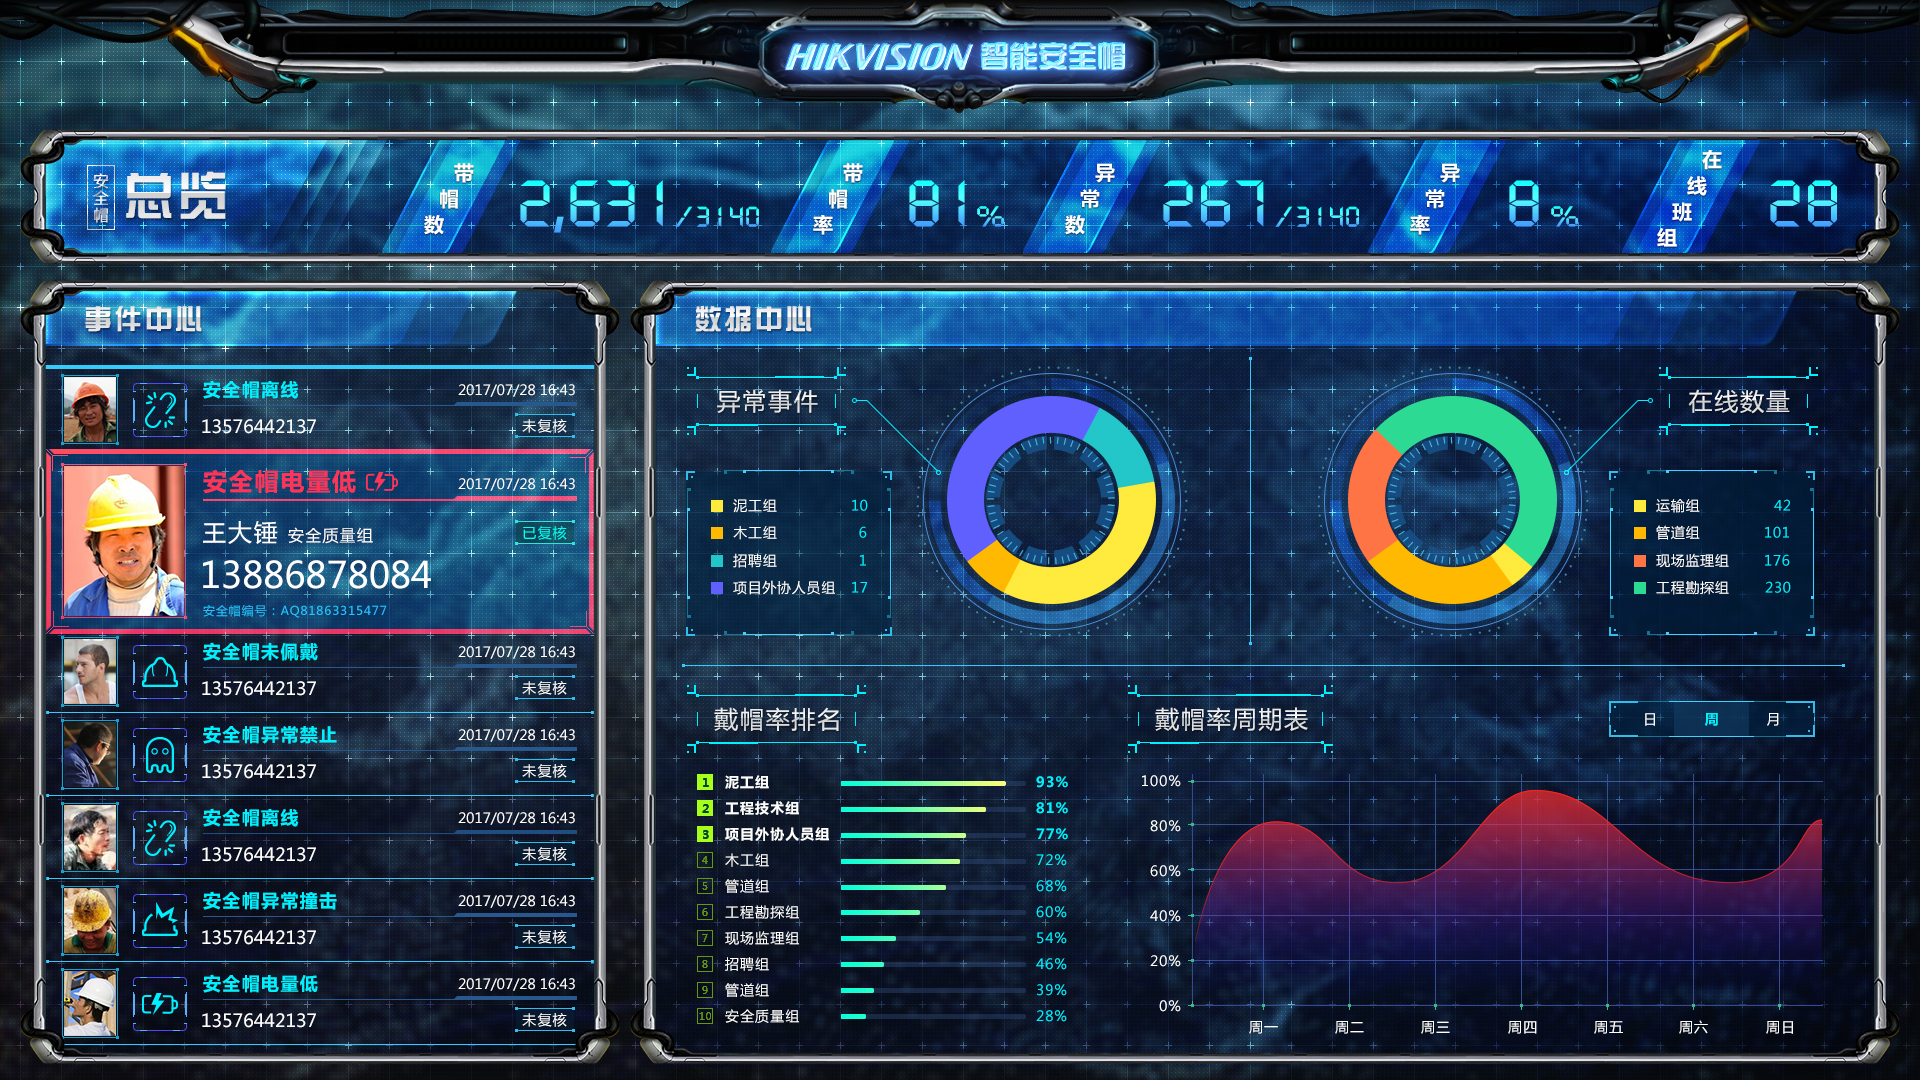
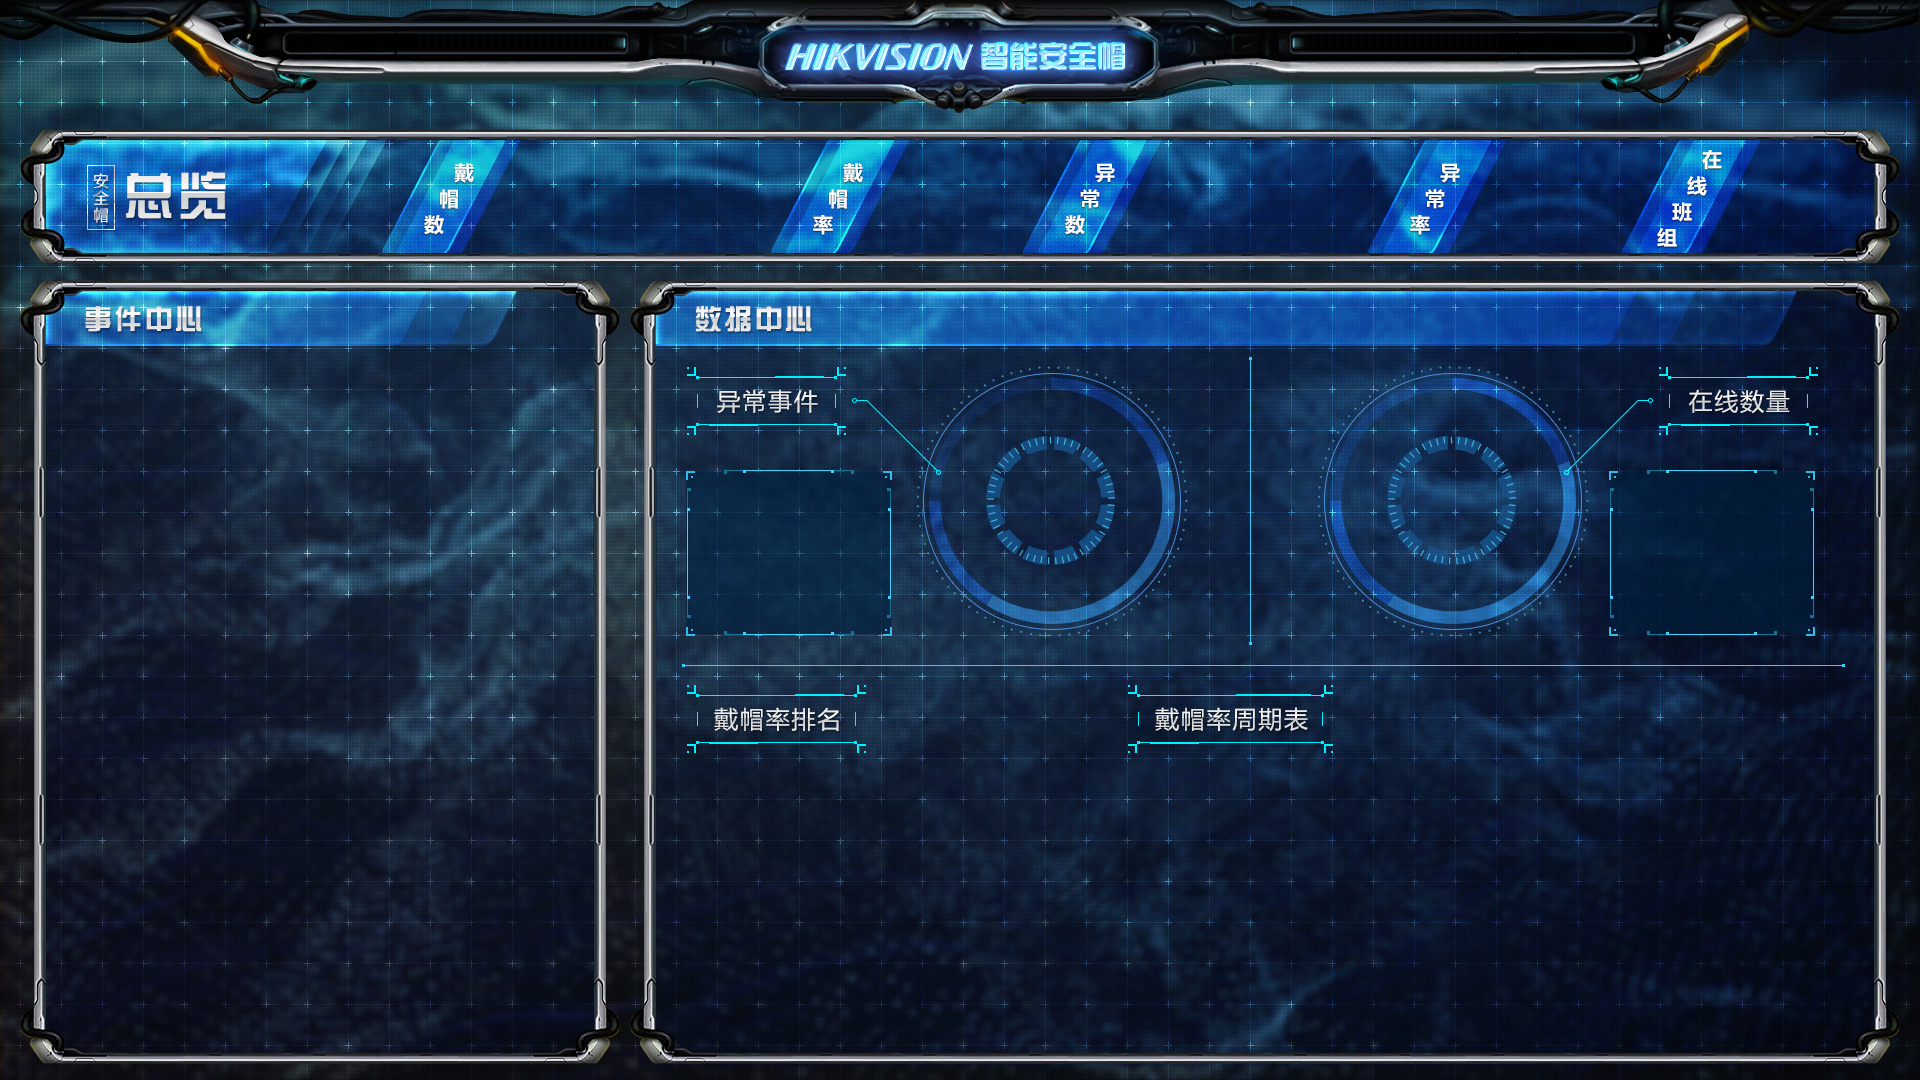
modify

diff --git a/src/views/Overview.vue b/src/views/Overview.vue
@@ -1,8 +1,11 @@
 <template>
   <div class="main-bg">
     <LayoutView>
-      <div slot="overview">
-        <div class="test-font">1123123123</div>
+      <div slot="summary">
+        <Summary  :summary="summary">
+          <h3 slot="title">总览</h3>
+        </Summary>
+        <!-- <div class="test-font">1123123123</div> -->
       </div>
       <div slot="event">
         <event-view  :eventData="event">
@@ -35,6 +38,7 @@
 
 <script>
   import LayoutView from '../components/LayoutView.vue'
+  import Summary from '../components/Summary.vue'
   import PieView from '../components/PieView.vue'
   import CurveView from '../components/CurveView.vue'
   import RankView from '../components/RankView.vue'
@@ -45,7 +49,7 @@
     name: 'Overview',
     data () {
       return {
-        overview: [],
+        summary: [],
         event: [],
         unusual: null,
         hatNum: null,
@@ -59,7 +63,7 @@
           .then((results) =>{
             console.log(results);
             this.$nextTick(function(){
-              this.overview = results[0].data.data; // 总览
+              this.summary = results[0].data.data; // 总览
               this.event = results[1].data.data;  // 事件中心
               this.unusual = results[2].data.data;  // 异常事件
               this.hatNum = results[3].data.data;  // 各组安全帽在线数
@@ -72,6 +76,7 @@
     },
     components:{
       LayoutView,
+      Summary,
       PieView,
       CurveView,
       RankView,
@@ -84,25 +89,27 @@
   @import '../common/css/grid-layout.css';
   @import '../assets/font/ds-digital/ds-ditital.css';
   .main-bg{
-    background: url("/static/image/bg.jpg") 0 0 no-repeat;
-    margin-top:100px;
-    padding: 0;
-  }
-  .fill-10 {
-    border: 1px solid #ccc;
-    border-radius: 5px;
-    padding: 0 10px 5px 10px;
-    box-sizing: border-box;
-    -webkit-box-sizing: border-box;
-    -moz-box-sizing: border-box;
-    &>div{
-      height: 100%;
+    background: url("../../static/image/bg.jpg") 0 0 no-repeat;
+    height:1080px;
+    width: 1920px;
+    position: relative;
+    .fill-10 {
+      border: 1px solid #ccc;
+      border-radius: 5px;
+      padding: 0 10px 5px 10px;
+      box-sizing: border-box;
+      -webkit-box-sizing: border-box;
+      -moz-box-sizing: border-box;
+      &>div{
+        height: 100%;
+      }
+    }
+    .test-font{
+      font-family: 'ds-digital';
+      font-size: 90px;
+      color: orange;
     }
   }
-  .test-font{
-    font-family: 'ds-digital';
-    font-size: 90px;
-    color: orange;
-  }
+  
 
 </style>

diff --git a/src/components/Summary.vue b/src/components/Summary.vue
@@ -1,0 +1,46 @@
+<template>
+	<div>
+		<slot name="title"></slot>
+		<ul>
+			<li v-for="item in summary">
+					<div class = 'value test-font'>{{item.value}}</div>
+					<div class = 'name_unit'>{{item.name}}({{item.unit}})</div>
+			</li>
+		</ul>
+	</div>
+</template>
+<script>
+  export default {
+    name: 'Summary',
+    props:{
+      summary: {
+        type: Array,
+        default:()=>{return []}
+      }
+    }
+  }
+</script>
+<style scoped lang="less">
+ @import '../assets/font/ds-digital/ds-ditital.css';
+    ul{
+        padding: 0;
+        margin: 0;
+        li{
+            list-style-type: none;
+            display: inline-block;
+            width: 16.6667%;
+            text-align: center;
+            .value{
+                font: bold 36px "Arial",Negreta;
+            }
+            .name_unit{
+                font: bold 18px "Arial",Negreta;
+            }
+            .test-font{
+                font-family: 'ds-digital';
+                font-size: 90px;
+                color: orange;
+            }
+        }
+    }
+</style>

diff --git a/src/components/LayoutView.vue b/src/components/LayoutView.vue
@@ -3,7 +3,7 @@
     <!--安全帽总览-->
     <div class="gl-xs-w-12 gl-xs-h-2 gl-xs-x-0 gl-xs-y-0">
       <div class="fill-10">
-        <slot name="overview"></slot>
+        <slot name="summary"></slot>
       </div>
     </div>
     <!--事件中心-->
